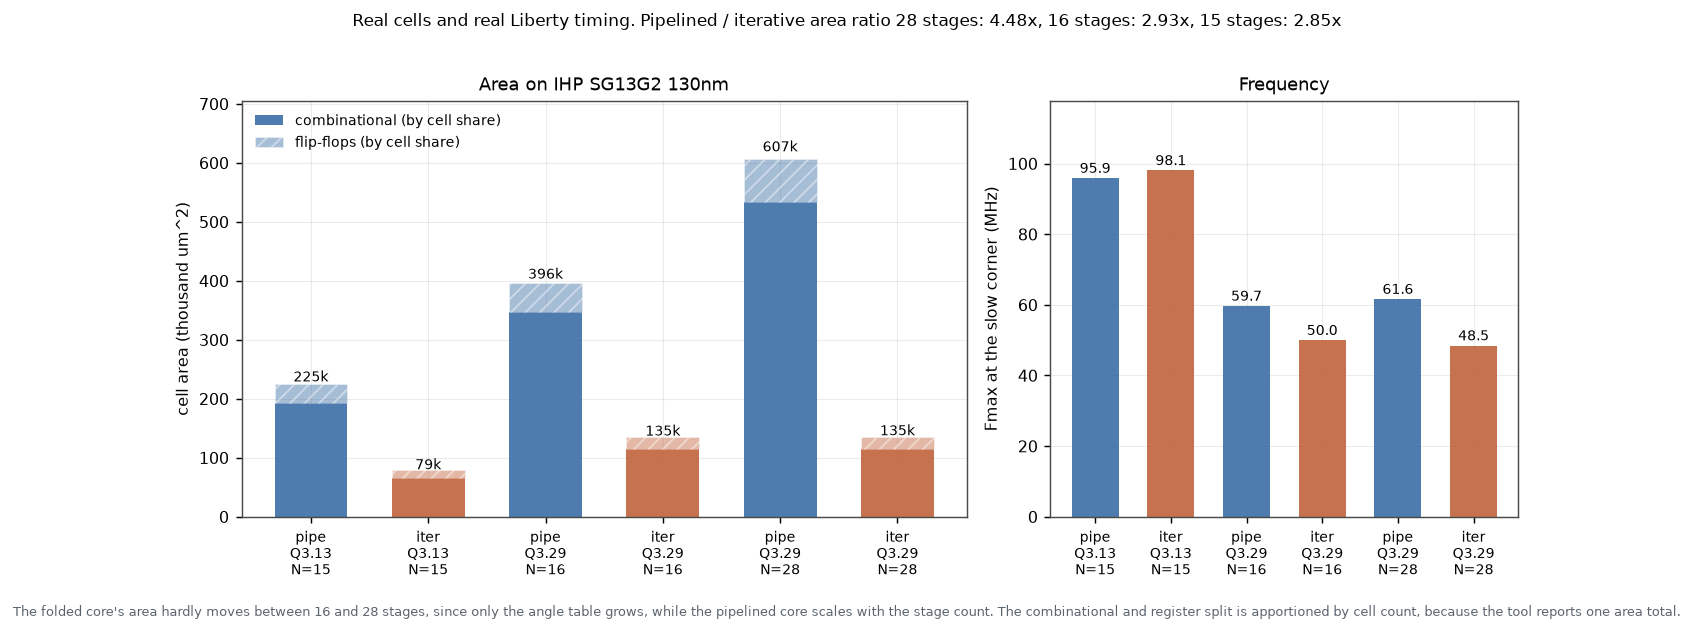
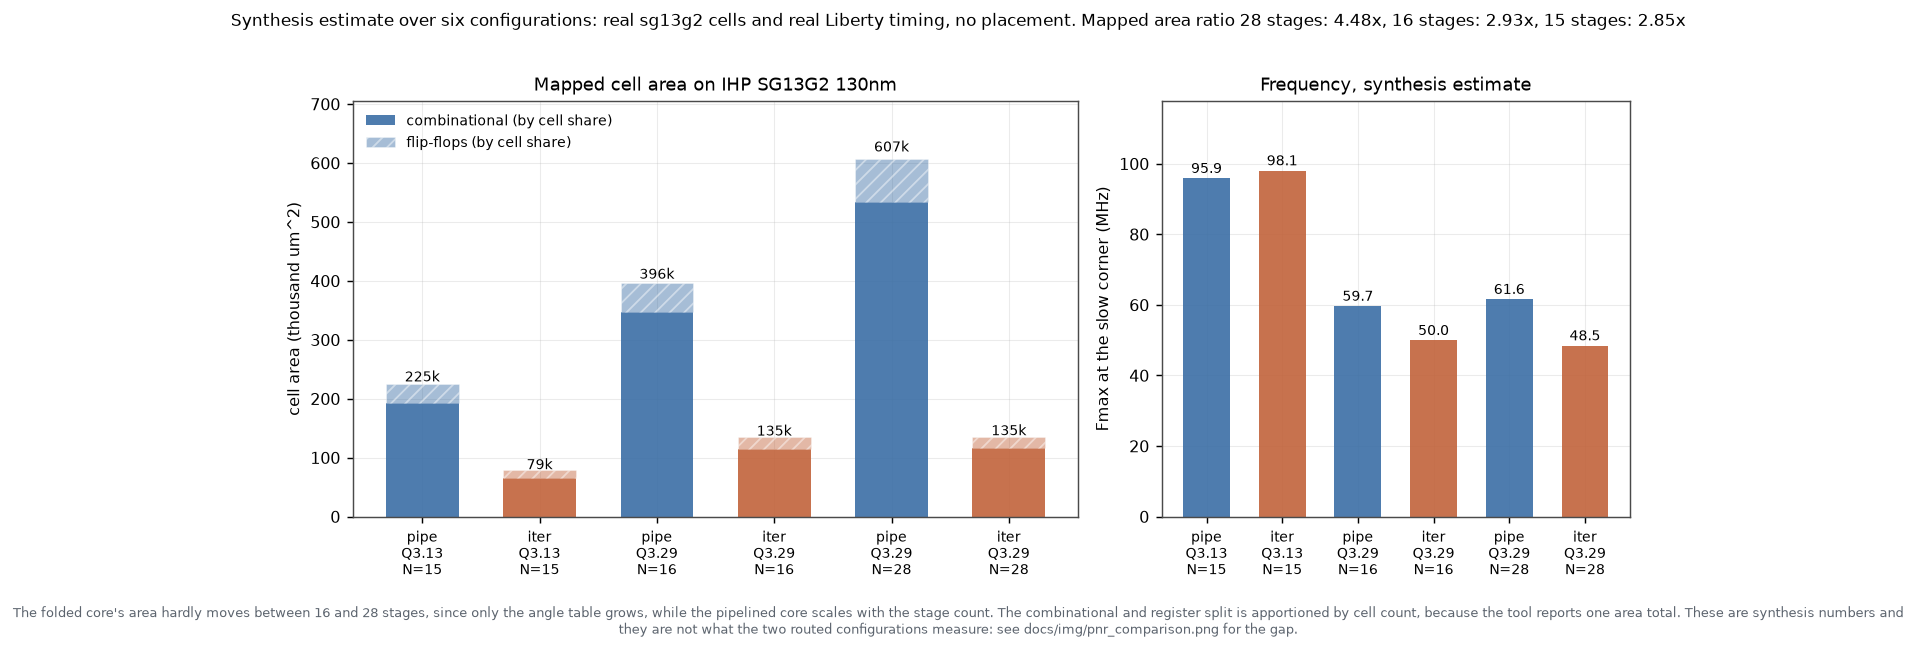
docs(figures): label the six-configuration chart as the synthesis estimate it is
It sat directly under the post-route comparison table, with a title saying only
'Real cells and real Liberty timing', so it read as measured post-route data for
all six configurations when it is a synthesis estimate for all six. Retitled, its
caption points at the post-route figure for the gap, and it now appears after the
post-route discussion rather than inside it.

diff --git a/scripts/gen_plots.py b/scripts/gen_plots.py
@@ -458,7 +458,7 @@ def plot_area():
     ax.set_xticklabels(labels, fontsize=7.5)
     ax.set_ylabel("cell area (thousand um^2)")
     ax.set_ylim(0, max((comb + ff) / 1000.0) * 1.16)
-    ax.set_title("Area on IHP SG13G2 130nm")
+    ax.set_title("Mapped cell area on IHP SG13G2 130nm")
     ax.legend(loc="upper left")
 
     ax = axes[1]
@@ -469,7 +469,7 @@ def plot_area():
     ax.set_xticklabels(labels, fontsize=7.5)
     ax.set_ylabel("Fmax at the slow corner (MHz)")
     ax.set_ylim(0, max(fmax) * 1.2)
-    ax.set_title("Frequency")
+    ax.set_title("Frequency, synthesis estimate")
 
     ratios = []
     for a, b in (("pipe_q3_29_n28", "iter_q3_29_n28"),
@@ -478,12 +478,13 @@ def plot_area():
         if a in s and b in s:
             ratios.append(f"{s[a]['config']['num_stages']} stages: "
                           f"{s[a]['synth_area_um2'] / s[b]['synth_area_um2']:.2f}x")
-    fig.suptitle("Real cells and real Liberty timing. Pipelined / iterative area "
-                 "ratio " + ", ".join(ratios), y=1.02, fontsize=9.5)
+    fig.suptitle("Synthesis estimate over six configurations: real sg13g2 cells and "
+                 "real Liberty timing, no placement. Mapped area ratio "
+                 + ", ".join(ratios), y=1.02, fontsize=9.5)
     note(fig, "The folded core's area hardly moves between 16 and 28 stages, since "
               "only the angle table grows, while the pipelined core scales with the "
               "stage count. The combinational and register split is apportioned by "
-              "cell count, because the tool reports one area total.")
+              "cell count, because the tool reports one area total. These are synthesis numbers and\nthey are not what the two routed configurations measure: see docs/img/pnr_comparison.png for the gap.")
     save(fig, "area_comparison.png")
 
 

diff --git a/README.md b/README.md
@@ -380,8 +380,6 @@ Post-route on IHP SG13G2, which is the only comparison that settles anything:
 | Results/s per mm2 of cells | 98.8 M | 17.5 M | **5.6x** |
 | Latency, end to end | 30 cycles | 31 cycles | |
 
-![Area comparison](docs/img/area_comparison.png)
-
 Folding is a worse deal than 1/N: 4.4x the cell area buys 25x the throughput, so the
 pipelined core is 5.6x better per square millimetre of cells. What it does not cost is
 frequency. **Post-route the folded core is the faster of the two, by 16 percent**, and
@@ -404,10 +402,15 @@ angle muxes into the same carry chain, over a die 0.6 mm on a side, and spends 0
 no placement has no way to charge for it. The throughput conclusion is unchanged, since
 25x is 25x, but the frequency ranking from synthesis alone was simply wrong.
 
-The width dependence is worth knowing before picking a format. At Q3.13 the synthesis
+Across all six configurations, still at synthesis and labelled as such on the figure:
+
+![Area and frequency over six configurations, synthesis estimate](docs/img/area_comparison.png)
+
+The width dependence there is worth knowing before picking a format. At Q3.13 the
 estimate puts the two at the same speed (95.9 against 98.1 MHz) because a 22-bit
 internal datapath needs one fewer mux level in the shifter. Only the Q3.29 pair has
-been routed, so whether that holds post-route is untested.
+been routed, so whether that holds post-route is untested, and the pair that was
+routed says the estimate can get the ranking backwards.
 
 Flow control in the pipelined core is one global enable, not per-stage skid buffers:
 
